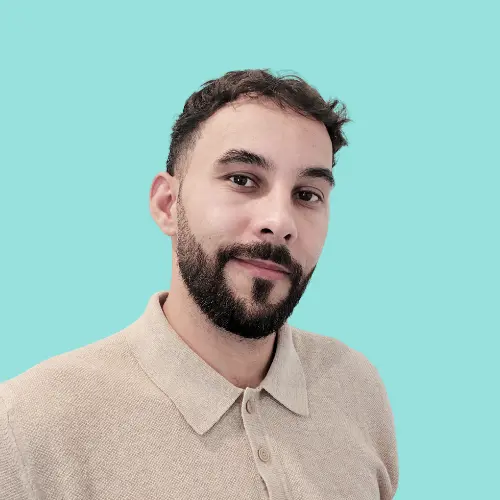
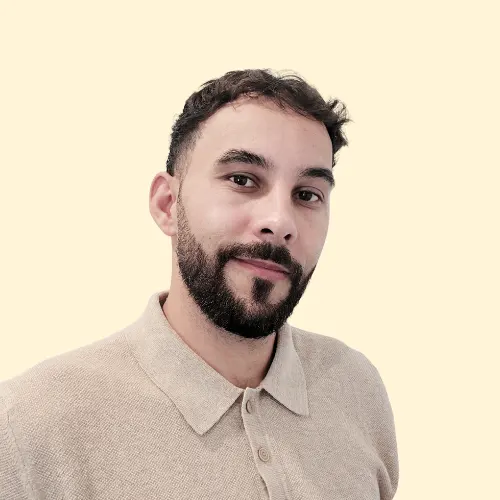
Replace profile photos and turn the photo panel into a dot-paginated carousel
- Swap profil-chris.webp for the yellow-background photo (about page +
  blog author signature) and add a separate teal-background photo for the
  homepage about teaser, which previously reused the same file
- Replace the auto-scrolling marquee with a proper carousel: one photo
  visible at a time, cross-fades automatically every 4s, 3 dots for manual
  navigation, matches the requested "défilement l'un après l'autre"
  instead of a continuous scroll

diff --git a/styles/_components.scss b/styles/_components.scss
@@ -646,49 +646,63 @@
   flex-shrink: 0;
 }
 
-// Auto-scrolling photo panel (page À propos)
-.photo-marquee {
-  overflow: hidden;
-  mask-image: linear-gradient(to right, transparent, $color-dark 5%, $color-dark 95%, transparent);
-  -webkit-mask-image: linear-gradient(to right, transparent, $color-dark 5%, $color-dark 95%, transparent);
-}
-
-.photo-marquee__track {
+// Photo carousel with dot pagination (page À propos)
+.photo-carousel {
   display: flex;
+  flex-direction: column;
+  align-items: center;
   gap: $spacing-md;
-  width: max-content;
-  animation: photo-marquee-scroll 24s linear infinite;
 }
 
-.photo-marquee__item {
+.photo-carousel__viewport {
   position: relative;
-  flex-shrink: 0;
-  width: 220px;
+  width: 100%;
+  max-width: 320px;
   aspect-ratio: 3 / 4;
   border-radius: $radius-md;
   overflow: hidden;
 
   @include from($bp-tablet) {
-    width: 300px;
+    max-width: 420px;
   }
 }
 
-.photo-marquee__item img {
+.photo-carousel__slide {
+  position: absolute;
+  inset: 0;
+  opacity: 0;
+  transition: opacity 0.6s ease;
+}
+
+.photo-carousel__slide.is-active {
+  opacity: 1;
+}
+
+.photo-carousel__slide img {
   object-fit: cover;
 }
 
-@keyframes photo-marquee-scroll {
-  from {
-    transform: translateX(0);
-  }
-  to {
-    transform: translateX(-50%);
-  }
+.photo-carousel__dots {
+  display: flex;
+  gap: $spacing-xs;
+}
+
+.photo-carousel__dot {
+  width: 10px;
+  height: 10px;
+  border-radius: 50%;
+  background: $color-border;
+  transition: background 0.2s ease, transform 0.2s ease;
+}
+
+.photo-carousel__dot.is-active {
+  background: $color-primary;
+  transform: scale(1.2);
 }
 
 @media (prefers-reduced-motion: reduce) {
-  .photo-marquee__track {
-    animation: none;
+  .photo-carousel__slide {
+    transition: none;
   }
 }
 

diff --git a/app/(site)/a-propos/page.tsx b/app/(site)/a-propos/page.tsx
@@ -4,6 +4,7 @@ import Link from "next/link";
 import { ROUTES } from "@/lib/routes";
 import RevealTimeline from "@/components/RevealTimeline";
 import TimelineLogoBadge from "@/components/TimelineLogoBadge";
+import PhotoCarousel from "@/components/PhotoCarousel";
 
 const TITLE = "Consultant RNCP/RS et ingénieur pédagogique - Satisa Formation";
 const DESCRIPTION =
@@ -273,21 +274,20 @@ export default function AboutPage() {
       </section>
 
       <section>
-        <div className="photo-marquee">
-          <div className="photo-marquee__track" aria-hidden="true">
-            {[
-              "/images/photos/chris-bureau.webp",
-              "/images/photos/chris-terrasse-1.webp",
-              "/images/photos/chris-terrasse-2.webp",
-              "/images/photos/chris-bureau.webp",
-              "/images/photos/chris-terrasse-1.webp",
-              "/images/photos/chris-terrasse-2.webp",
-            ].map((src, index) => (
-              <div className="photo-marquee__item" key={index}>
-                <Image src={src} alt="" fill sizes="300px" />
-              </div>
-            ))}
-          </div>
+        <div className="container">
+          <PhotoCarousel
+            photos={[
+              { src: "/images/photos/chris-bureau.webp", alt: "Chris Blassiaux au travail sur son bureau" },
+              {
+                src: "/images/photos/chris-terrasse-1.webp",
+                alt: "Chris Blassiaux qui travaille sur son ordinateur portable en terrasse",
+              },
+              {
+                src: "/images/photos/chris-terrasse-2.webp",
+                alt: "Chris Blassiaux souriant, en terrasse avec son ordinateur portable",
+              },
+            ]}
+          />
         </div>
       </section>
 

diff --git a/components/PhotoCarousel.tsx b/components/PhotoCarousel.tsx
@@ -1,0 +1,52 @@
+"use client";
+
+import { useEffect, useState } from "react";
+import Image from "next/image";
+
+type Photo = { src: string; alt: string };
+
+export default function PhotoCarousel({ photos }: { photos: Photo[] }) {
+  const [index, setIndex] = useState(0);
+
+  useEffect(() => {
+    const timer = window.setInterval(() => {
+      setIndex((current) => (current + 1) % photos.length);
+    }, 4000);
+    return () => window.clearInterval(timer);
+  }, [photos.length]);
+
+  return (
+    <div className="photo-carousel">
+      <div className="photo-carousel__viewport">
+        {photos.map((photo, i) => (
+          <div
+            key={photo.src}
+            className={`photo-carousel__slide${i === index ? " is-active" : ""}`}
+            aria-hidden={i === index ? undefined : true}
+          >
+            <Image
+              src={photo.src}
+              alt={photo.alt}
+              fill
+              sizes="(max-width: 768px) 90vw, 480px"
+              priority={i === 0}
+            />
+          </div>
+        ))}
+      </div>
+      <div className="photo-carousel__dots" role="tablist" aria-label="Photos de Chris Blassiaux">
+        {photos.map((photo, i) => (
+          <button
+            key={photo.src}
+            type="button"
+            role="tab"
+            aria-selected={i === index}
+            aria-label={`Photo ${i + 1}`}
+            className={`photo-carousel__dot${i === index ? " is-active" : ""}`}
+            onClick={() => setIndex(i)}
+          />
+        ))}
+      </div>
+    </div>
+  );
+}

diff --git a/app/(site)/page.tsx b/app/(site)/page.tsx
@@ -196,7 +196,7 @@ export default async function HomePage() {
       <section>
         <div className="container grid grid--2" style={{ alignItems: "center" }}>
           <div className="about-photo about-photo--compact">
-            <Image src="/images/photos/profil-chris.webp" alt="Chris Blassiaux, fondateur de Satisa Formation" width={500} height={500} />
+            <Image src="/images/photos/profil-chris-accueil.webp" alt="Chris Blassiaux, fondateur de Satisa Formation" width={500} height={500} />
           </div>
           <div>
             <p className="eyebrow">À propos</p>
